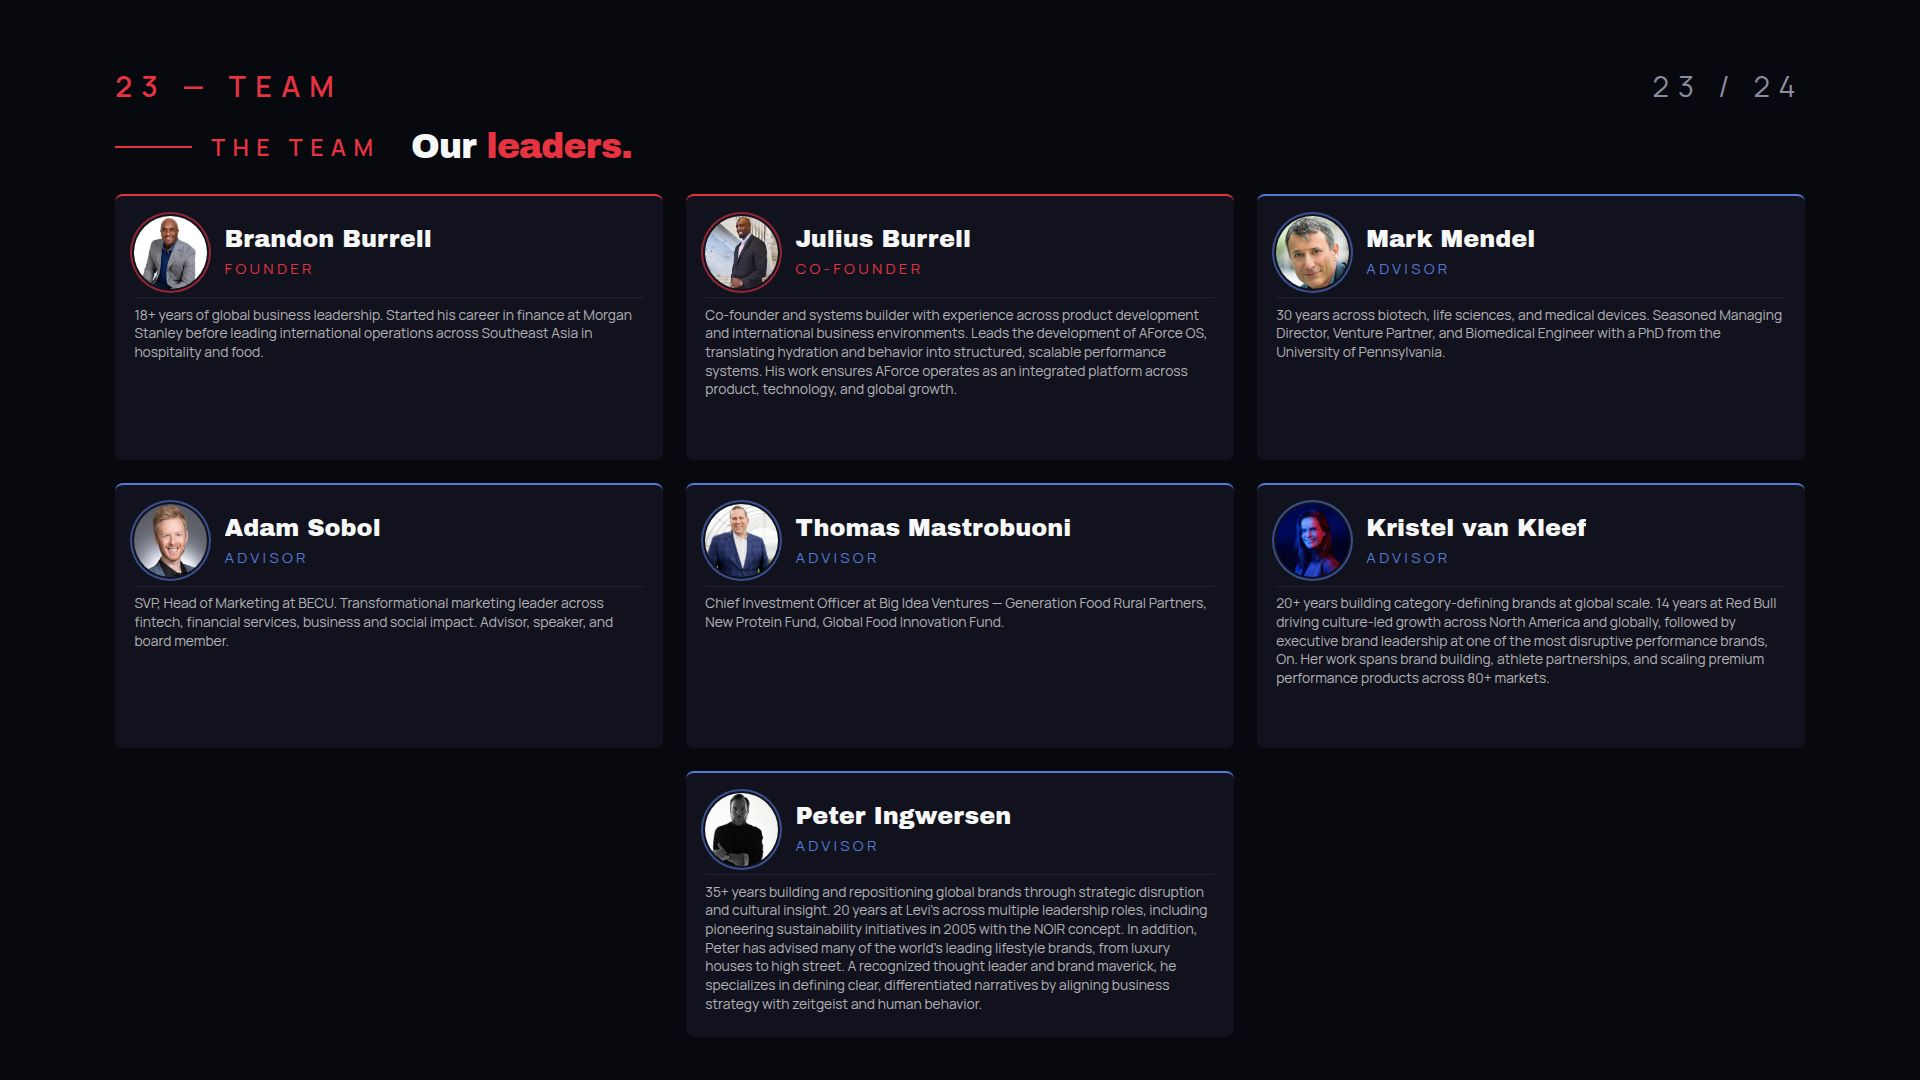
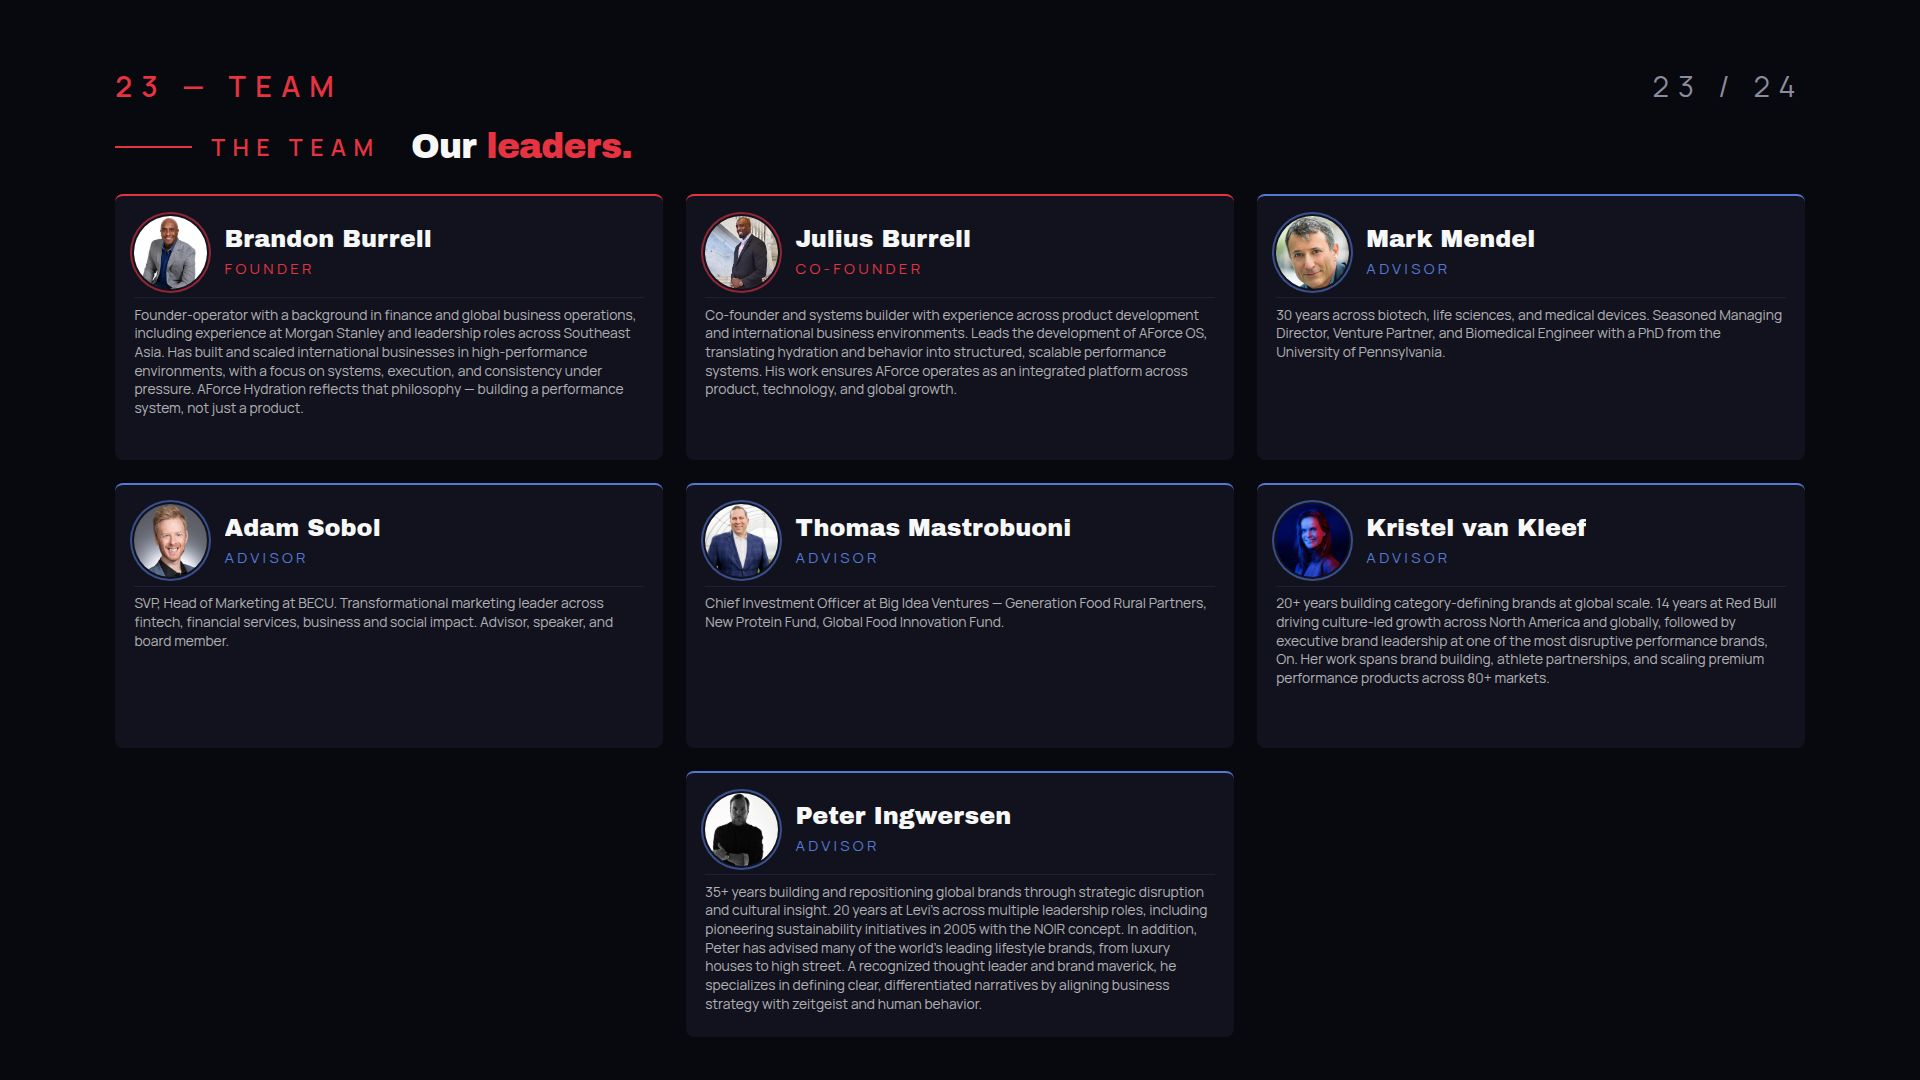
Update Brandon's founder biography with a more detailed background
Update Brandon Burrell's bio in the Leaders slide component with his full founder-operator background, experience at Morgan Stanley, and emphasis on building performance systems.

Replit-Commit-Author: Agent
Replit-Commit-Session-Id: 735f25c4-ed8e-4817-8f79-73dd845c27a6
Replit-Commit-Checkpoint-Type: full_checkpoint
Replit-Commit-Event-Id: 79723bf1-ef1b-48cd-be51-c8e7c81e1a0f
Replit-Commit-Screenshot-Url: https://storage.googleapis.com/screenshot-production-us-central1/745ad57f-0f0d-4501-8ad0-cf0ad11b0793/735f25c4-ed8e-4817-8f79-73dd845c27a6/fbNSkBt
Replit-Helium-Checkpoint-Created: true

Changed region(s): [[0.0625, 0.275, 0.3438, 0.3972]]

diff --git a/artifacts/aforce-pitch/src/pages/slides/Leaders.tsx b/artifacts/aforce-pitch/src/pages/slides/Leaders.tsx
@@ -22,7 +22,7 @@ export default function Leaders() {
       role: "Founder",
       color: "primary",
       photo: `${base}brandon.jpg`,
-      bio: "18+ years of global business leadership. Started his career in finance at Morgan Stanley before leading international operations across Southeast Asia in hospitality and food.",
+      bio: "Founder-operator with a background in finance and global business operations, including experience at Morgan Stanley and leadership roles across Southeast Asia. Has built and scaled international businesses in high-performance environments, with a focus on systems, execution, and consistency under pressure. AForce Hydration reflects that philosophy — building a performance system, not just a product.",
     },
     {
       name: "Julius Burrell",
